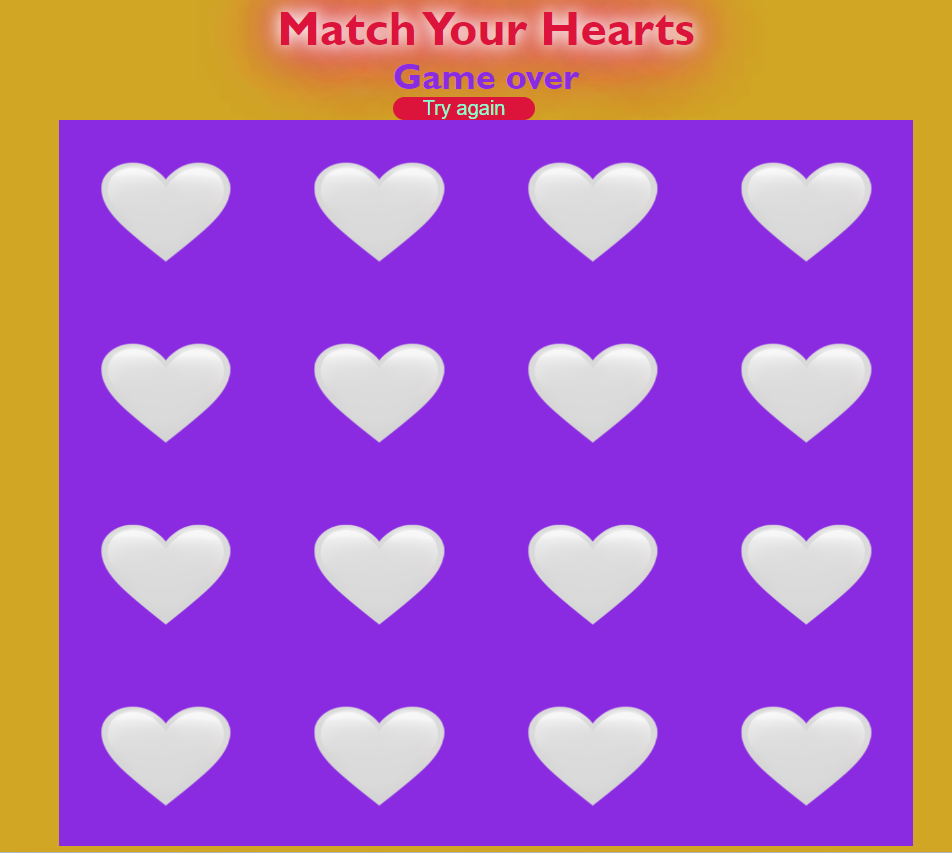
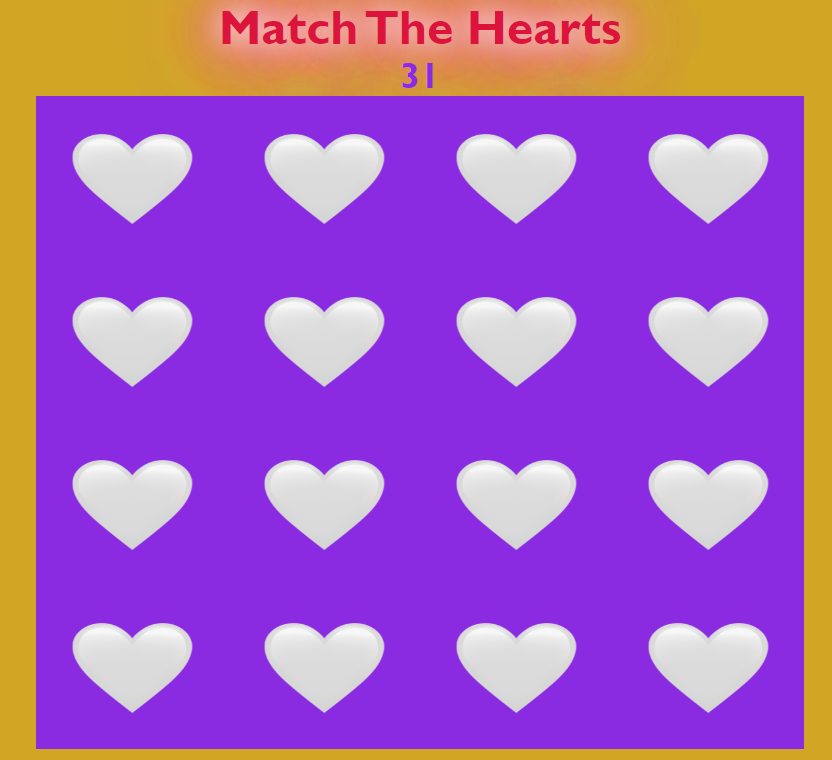
ReadME is added link to images is pending

diff --git a/index.html b/index.html
@@ -11,7 +11,7 @@
   </head>
   <body>
     <div class="heading">
-      <h1 id="match">Match Your Hearts</h1>
+      <h1 id="match">Match The Hearts</h1>
       <h2 id="win-status">You win !!😍 </h2>
       <!-- <h2 id="lose-status">Sorry try again !!</h2> -->
     </div>

diff --git a/index.js b/index.js
@@ -8,7 +8,7 @@ const main = document.querySelector(".game-layout");
 let button;
 
 //setting time limit to 60 seconds
-let currentTime = 100;
+let currentTime = 60;
 let countDownTimerId = setInterval(countDown, 1000);
 
 function countDown() {

diff --git a/README.md b/README.md
@@ -1,53 +1,65 @@
-## Colored Hearts Matching Game
+## **Colored Hearts Matching Game**
+#
 
 [Game](https:www.github.com)
-
-## Built With
+#
+## **Built With**
+#
 
 ![HTML5](https://img.shields.io/badge/html5-%23E34F26.svg?style=for-the-badge&logo=html5&logoColor=white)
 
 ![CSS3](https://img.shields.io/badge/css3-%231572B6.svg?style=for-the-badge&logo=css3&logoColor=white)
 
 ![JavaScript](https://img.shields.io/badge/javascript-%23323330.svg?style=for-the-badge&logo=javascript&logoColor=%23F7DF1E)
-
-## Getting started
+#
+## **Getting started**
+#
 - Clone the repository
-
+```
 git clone https://github.com/Shilpashreeau/Game-project.git
+
+```
 
 OR
 - Fork the repository 
-
-## Prerequisites
+#
+## **Prerequisites**
+#
 - Visual Studio Code
 
-## Installation
+#
+## **Wire frame**
+#
+![Wireframe1](/../<main>/path/to/Wireframe1.png?raw=true "Optional Title")
 
+![Wireframe1](/../<main>/path/to/Wireframe1.png?raw=true "Optional Title")
 
-
-## Wire frame
-![Game layout]()
-
-## Game Rule
-- Has only one mode, one level. You need to find all matched hearts in 30s.
+![Wireframe1](/../<main>/path/to/Wireframe1.png?raw=true "Optional Title")
+#
+## **Game Rule**
+#
+- Has only one mode, one level. You need to find all matched hearts in 60s. You need to click on pulsing heart !
 - When a same color hearts are matched, they remain flipped. 
 - When game is timeout, Game Over message will be displayed.
 - Game can be played again by clicking Play again button.
 - If you can find all heart pairs in less than 30s, You win 😍 message will be displayed.
 - You can refresh the page to play agin after winning the game.
-- Color list will be randomized every time you start a new game.
+- Hearts will be randomized every time you start a new game.
 
 
-## Author / Contact
+#
+## **Author / Contact**
+#
 ### Shilpa Uday
 [GitHub](https://github.com/Shilpashreeau)
 
 [LinkedIn](https://www.linkedin.com/in/shilpashree1)
-
-## Acknowledgements
-### Resources
+#
+## **Acknowledgements**
+#
 - https://github.com/paulnguyen-mn/color-matching-game
 - https://marina-ferreira.github.io/tutorials/
+- https://www.w3schools.com
 
 
 
